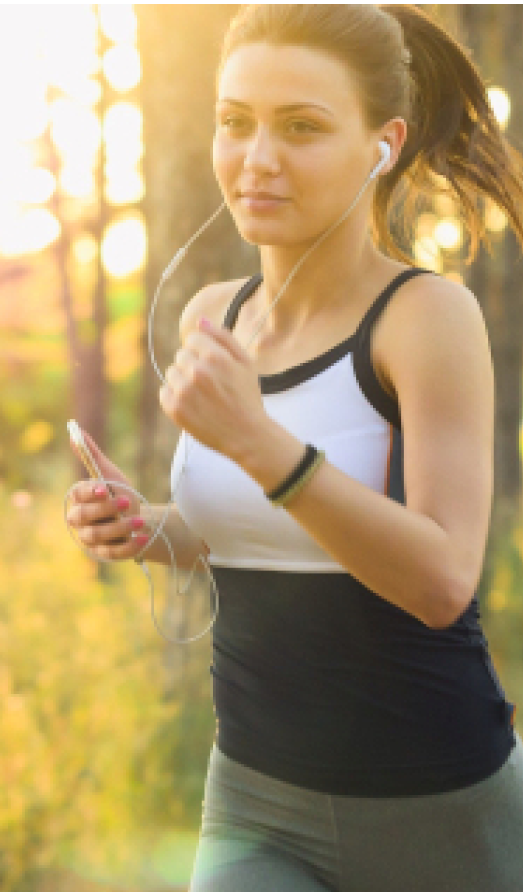
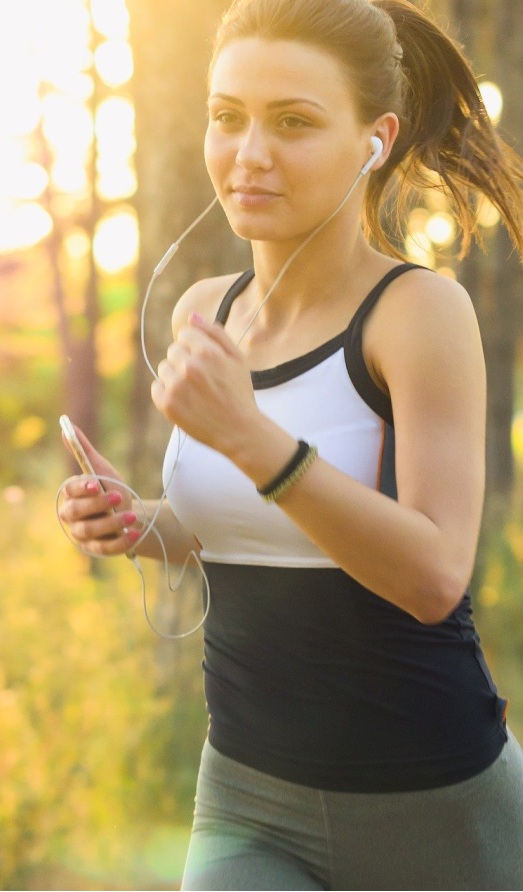
brand page update

diff --git a/ressources/styles/brand.scss b/ressources/styles/brand.scss
@@ -16,13 +16,14 @@
   width: 100%;
   display: flex;
   position: relative;
-  h1 {
+  .main-title {
     color: $white;
-    font-size: $mobile-main-title-font-size;
+    font-size: $big-size;
     position: absolute;
-    top: 35%;
+    top: 45%;
     left: 49%;
-    width: 142px;
+    width: 494px;
+    font-family: "Oswald";
   }
 }
 
@@ -36,7 +37,6 @@
 
 %section {
   width: 100%;
-  height: 400px;
   display: flex;
   align-items: center;
   justify-content: space-evenly;
@@ -78,10 +78,19 @@
   p {
     color: $white;
     font-size: 12px;
+    font-family: "roboto";
   }
 }
 
 .yellow-box {
+  display: none;
+}
+
+.man-watch-picture {
+  display: none;
+}
+
+.running-woman-picture {
   display: none;
 }
 
@@ -112,12 +121,38 @@
 }
 
 @media #{$media-up} {
+  .main-title {
+    text-transform: uppercase;
+  }
+
   .yellow-box {
     display: block;
     width: 27%;
     background-color: $yellow;
   }
   .first-part {
+    display: flex;
+    position: relative;
+    height: 75%;
+  }
+
+  .second-part {
+    display: flex;
+    height: 83%;
+  }
+
+  .man-watch-picture {
+    display: block;
+    position: absolute;
+    top: 85px;
+    right: 88px;
+    height: 300px;
+  }
+
+  .running-woman-picture {
+    display: block;
+    height: auto;
+    width: 21.3%;
   }
 }
 //   .brand-banner {

diff --git a/ressources/styles/common/_fonts.scss b/ressources/styles/common/_fonts.scss
@@ -1,5 +1,6 @@
 $mobile-main-title-font-size: 16px;
 $mobile-subitle-font-size: 14px;
 $small-size: 12px;
+$big-size: 45px;
 
 //font families

diff --git a/brand.php b/brand.php
@@ -16,7 +16,8 @@
 
         <div class="banner-container">
             <img class="brand-banner" src="ressources/images/banners/brand-banner.png" alt="brand-banner">
-            <h1>Comment <span class="orange-highlight">l'aventure</span> à <span class="orange-highlight">
+            <h1 class="main-title">Comment <span class="orange-highlight">l'aventure</span> à <span
+                    class="orange-highlight">
                     commencé</span></h1>
         </div>
 
@@ -61,10 +62,11 @@
                 </div>
             </div>
             <div class="yellow-box"></div>
+            <img class="man-watch-picture" src="ressources/images/photos/man-using-watch.png" alt="brand-banner">
         </section>
 
 
-        <section>
+        <section class="second-part">
             <div class="second-section">
                 <div class="white-side-line"></div>
                 <div class="content-container">
@@ -96,6 +98,7 @@
                     </div>
                 </div>
             </div>
+            <img class="running-woman-picture" src="ressources/images/photos/woman-running.png">
         </section>
 
         <section>
